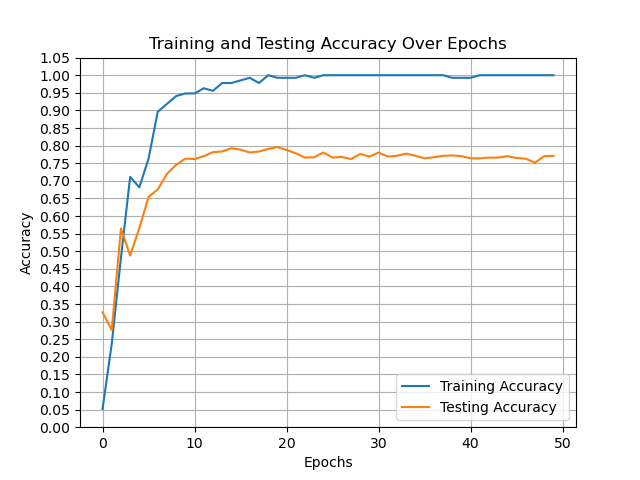
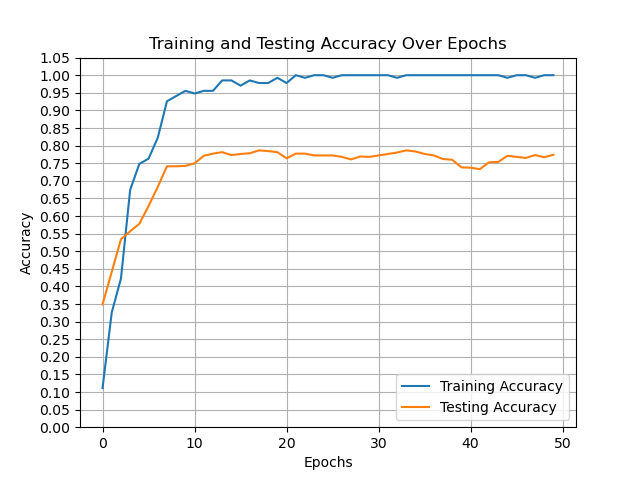
没添加训练集扩充之前，保留完整测试训练图像

diff --git a/env.py b/env.py
@@ -43,28 +43,6 @@ DEVICE = torch.device('cuda' if torch.cuda.is_available() else 'cpu')
 Trans_feature = namedtuple('Trans_feature', ['src_index', 'next_state'])  # 定义转移状态
 
 
-class Trans_Buffer:  # 定义缓冲池扩充训练集
-    def __init__(self, buffer_size=1350):  # TODO：一共得到多少状态
-        self.buffer_size = buffer_size
-        self.buffer = []
-
-    def save(self, src_index, next_state):  # 添加经验：逐个保存
-        if len(self.buffer) == self.buffer_size:
-            self.buffer.pop(0)  # 弹出队头经验维持缓冲池大小
-        transition = Trans_feature(src_index, next_state)
-        self.buffer.append(transition)
-
-    def sample(self, batch_size):  # 采样
-        if len(self.buffer) < batch_size:
-            samples = random.sample(self.buffer, len(self.buffer))
-        else:
-            samples = random.sample(self.buffer, batch_size)
-        return map(np.array, zip(*samples))  # 返回numpy形式的批量经验
-
-    def size(self):  # 返回记忆缓存长度
-        return len(self.buffer)
-
-
 class SageGCN(nn.Module):  # 定义图卷积层
     def __init__(self, activation=torch.relu):  # TODO: 可尝试使用多种激活函数
         super(SageGCN, self).__init__()
@@ -101,7 +79,8 @@ class GraphSage(nn.Module):
         self.gcn = nn.ModuleList()
         for _ in range(num_layers):
             self.gcn.append(SageGCN())  # TODO： 舍弃 sigmoid 接入 relu
-        self.fc = nn.Sequential(nn.Linear(input_dim, hidden_dim), nn.ReLU(), nn.Linear(hidden_dim, output_dim))  # 叠加多层线性层并使用relu函数进行连接
+        self.fc = nn.Sequential(nn.Linear(input_dim, hidden_dim), nn.ReLU(),
+                                nn.Linear(hidden_dim, output_dim))  # 叠加多层线性层并使用relu函数进行连接
         self.initialize_weights()  # 参数初始化
 
     def initialize_weights(self):
@@ -113,15 +92,13 @@ class GraphSage(nn.Module):
 
     def forward(self, actions, src_index, trans_features):  # 0~9  TODO：模型计算太慢
         self.features = trans_features  # 将转移后的特征进行赋值
-        # sample_nums = actions 为多重列表，每列表存储当前层的采样节点对应的采样数量，src_index 为单层列表，代表原始采样节点索引
-        # self.num_layers = len(sample_nums)  # 层数也可自定义
         hidden = self.multi_hop_sampling(actions, src_index)  # 直接返回的tensor(已放在cuda上)
         for l in range(self.num_layers):  # 循环遍历每层，使用对象层对应的的sage卷积处理节点特征
             next_hidden = []  # 列表，用于收集当前层处理后的节点特征。
             gcn = self.gcn[l]
-            for hop in range(self.num_layers - l):  # 剩余每一跳，比如说在第二层只会处理剩下的一遍
-                src_node_features = hidden[hop]  # 当前跳的源节点特征。hidden[hop]为list：存储当前层邻居所有的特征(16, 1433)
-                h = gcn(actions[hop], src_node_features, hidden[hop + 1])  # 将该层的每个节点特征以及动态采样数与下一层邻居特征作为参数输入
+            for hop in range(self.num_layers - l):
+                src_node_features = hidden[hop]
+                h = gcn(actions[hop], src_node_features, hidden[hop + 1])
                 next_hidden.append(h)  # 在列表末尾添加
             hidden = next_hidden  # 更新列表，准备进行下一图层处理
         output = self.fc(hidden[0])
@@ -157,14 +134,10 @@ class GraphSage(nn.Module):
         sampling_result_x = [torch.from_numpy(self.features[idx]).float().to(DEVICE) for idx in sampling_result]
         return sampling_result_x  # 提取采样结果的对应特征并返回特征列表
 
-    def extra_repr(self):  # 打印网络结构
-        return 'in_features={}, num_neighbors_list={}'.format(
-            self.input_dim, self.num_neighbors_list
-        )
-
 
 class Sage_env:
-    def __init__(self, hid_dim, output_dim, num_layers, max_sample_num, lr, weight_decay, NUM_BATCH_PER_EPOCH, policy=""):
+    def __init__(self, hid_dim, output_dim, num_layers, max_sample_num, lr, weight_decay, NUM_BATCH_PER_EPOCH,
+                 policy=""):
         self.hid_dim = hid_dim
         self.output_dim = output_dim
         self.num_layers = num_layers
@@ -174,7 +147,6 @@ class Sage_env:
         self.policy = policy
         self.processing_data()  # 进行数据处理
         self.trans_features = self.features  # 转移特征初始化为原始特征
-        self.transfer_tree = cKDTree(self.features[self.idx_train])  # TODO: 用于计算转移状态最相似节点
         self.batch_size = len(self.idx_train)  # 为训练节点数量作为批次训练数量，同时也为 dqn 每次采样经验的数量
         self.past_performance = [0.0]  # 该两个变量用于计算前面的平均准确率，用于定义奖励
         self.baseline_experience = 5  # 过去五个批次
@@ -183,9 +155,9 @@ class Sage_env:
         self.NUM_BATCH_PER_EPOCH = NUM_BATCH_PER_EPOCH  # 每轮训练执行多少个批次  TODO：没有用到
         self.buffers = [[] * len(self.idx_train)]  # 用于存储每一批次所有时间步对应节点采样数量的均值
 
-        self.Buffer = Trans_Buffer()  # 将缓冲池大小传进来
         # 定义模型
-        self.model = GraphSage(self.features.shape[1], hid_dim, output_dim, num_layers).to(DEVICE)  # 拟设定num_layers=2为图卷积层数
+        self.model = GraphSage(self.features.shape[1], hid_dim, output_dim, num_layers).to(
+            DEVICE)  # 拟设定num_layers=2为图卷积层数
         self.optimizer = optim.Adam(self.model.parameters(), lr, weight_decay=weight_decay)
         self.criterion = nn.CrossEntropyLoss()
 
@@ -236,33 +208,13 @@ class Sage_env:
         r = np.sum(np.array(rewards))  # 计算该轮次总计奖励
         return (next_states, trans_index), rewards, dones, (val_acc, r)  # 返回平均准确率与平均奖励
 
-    # def state_transfer_new(self, actions, src_index):  # 执行聚合后的得到状态转移后的结果
-    #     """
-    #     1， 最理想的方案就是将聚合之后的结合参数的新的节点特征作为经过简单处理作为新的状态，执行状态转移，
-    #     这新的1433维向量可以模拟整个数据集中的节点特征情况；这种方法导致
-    #     2， 在测试集合内找到通过 KNN 得到相近的节点特征及其索引作为下一阶段输入，这种方法导致训练到最后可选节点总趋于一致
-    #     """
-    #     _, next_states = self.model(actions, src_index, self.trans_features)
-    #     next_states = self.Feature_preprocessing(next_states)
-    #     # TODO: 状态转移过程归纳到训练集之内，使用 最近邻机制 进行估计状态转移： 转移几轮过后，最近的几个节点总是趋于一致
-    #     distance, index = self.transfer_tree.query(next_states, k=1)  # 查询距离最近节点并返回索引
-    #     trans_index = self.idx_val[index]
-    #     next_states = self.init_states[trans_index]
-    #     return next_states, trans_index
-
     def state_transfer(self, actions, src_index):
-        # 改进特征转移过程：仅使用方案 1 处理经过聚合信息后的新节点表示，对其进行规范化。
-        # 将其输入模型达到预测未知节点的目的，同时增加每轮训练次数，为模型增强泛化能力
         _, next_states = self.model(actions, src_index, self.trans_features)
         next_states = self.Feature_preprocessing(next_states)  # 特征规范化处理模块
         self.trans_features[src_index] = next_states
-        # TODO: 将转移状态填充，扩充训练集，在指导模型训练的过程中随机采样训练，增加模型泛化能力
-        self.buffers.add(src_index, next_states)
         return next_states, src_index
 
     def GNN_train(self, actions, scr_index):  # 在训练过程中使用随机采样，将过程的转移状态扩充到整个训练集和内
-        scr_index, new_feature = self.Buffer.sample(135)  # 随机采样
-        # TODO: 产生问题，怎么接入？？
         loss, accuracy, _ = self.train(actions, scr_index)
         return loss, accuracy
 

diff --git a/agent.py b/agent.py
@@ -179,7 +179,7 @@ class QAgent:
             actions = self.eval_step(new_states)  # 返回一个批次的预测动作
             # best_actions = [act if np.random.rand() > epsilon else np.random.randint(0, 10) for act in actions]
             # TODO: 方便调试
-            best_actions = [5 if np.random.rand() > epsilon else np.random.randint(0, 10) for act in actions]  # TODO： 用于测试，将动作全部设置成最大值或者最小值，看准确率是否发生变化
+            best_actions = [5 if np.random.rand() > epsilon else np.random.randint(0, 10) for act in actions]
             actions_sub_list.extend(best_actions)
             sample_result = env.model.sampling(index, best_actions)  # 针对索引列表内节点使用预测出来的最佳采样数量策略进行采样
             new_states = env.init_states[sample_result]  # TODO: 为什么每次将采样结果输入的新状态后得到的新动作都是一样的值？？因为新状态变为稀疏矩阵了！！！！！！！！！！
